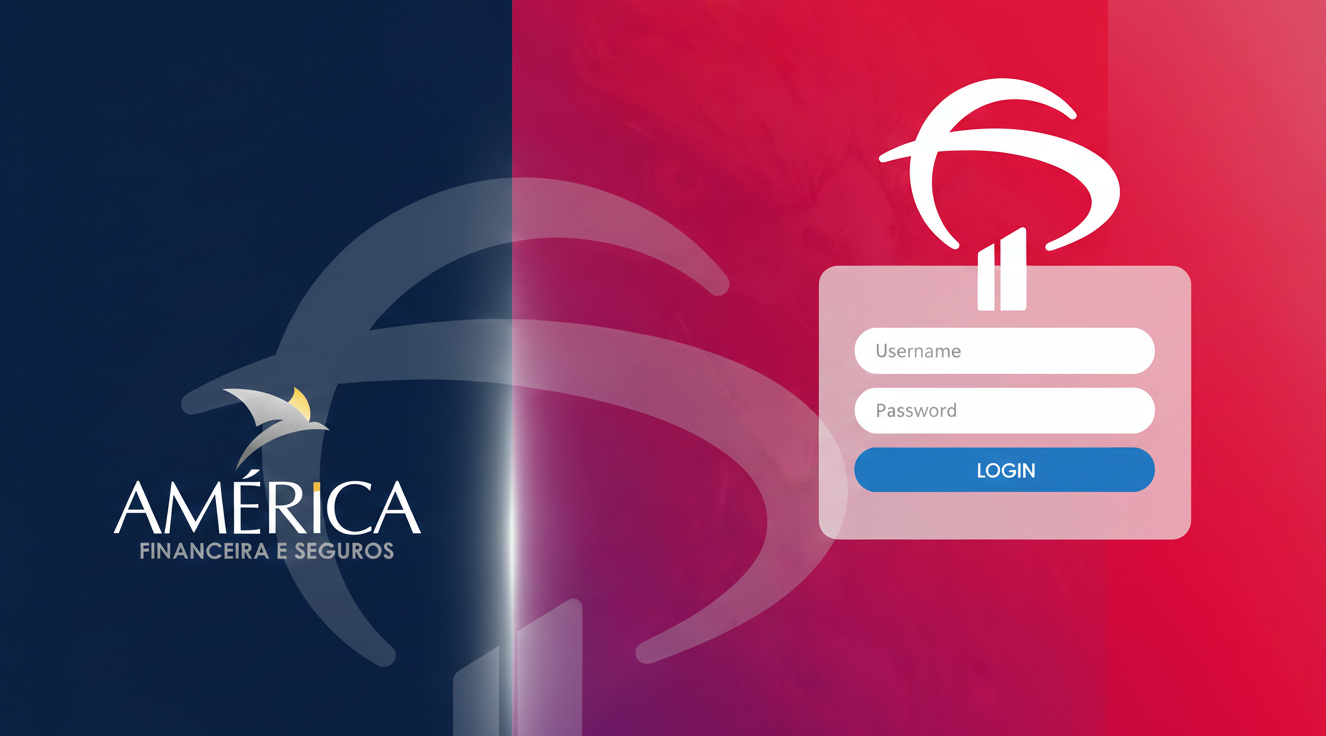
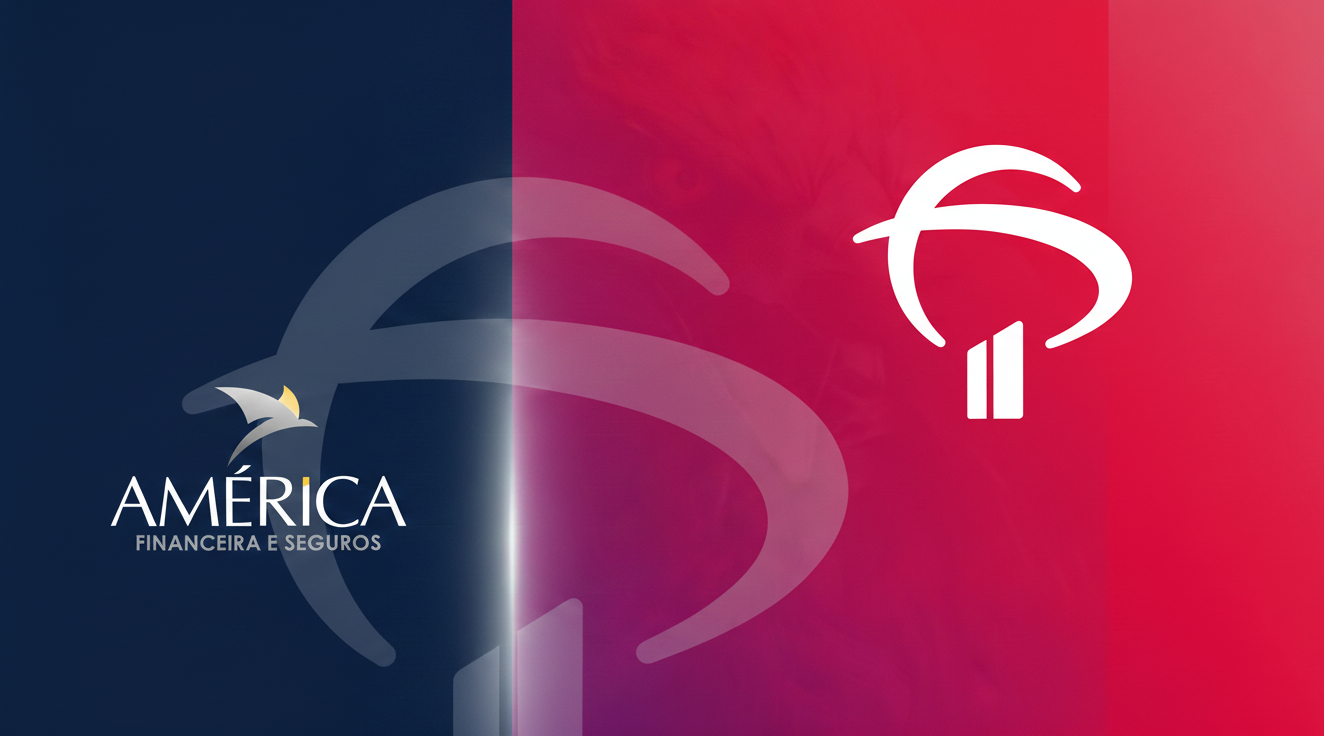
Refine login/dashboard layout and update login background

Changed region(s): [[0.5884, 0.0938, 0.898, 0.75], [0.0619, 0.5312, 0.3406, 0.7812]]

diff --git a/index.html b/index.html
@@ -39,7 +39,7 @@
       content: "";
       position: fixed;
       inset: 0;
-      background: linear-gradient(90deg, rgba(6, 10, 15, 0.28) 0%, rgba(6, 10, 15, 0.42) 100%);
+      background: rgba(0, 0, 0, 0.28);
       z-index: -1;
     }
     .page {
@@ -47,31 +47,7 @@
       grid-template-columns: 45% 55%;
       min-height: 100vh;
     }
-    .left {
-      display: flex;
-      align-items: center;
-      padding: 48px 56px;
-    }
-    .brand-block {
-      background: rgba(10, 14, 22, 0.45);
-      border: 1px solid var(--panel-border);
-      border-radius: 12px;
-      padding: 20px 22px;
-      backdrop-filter: blur(4px);
-      max-width: 360px;
-    }
-    .brand-title {
-      font-size: 22px;
-      letter-spacing: 0.05em;
-      font-weight: 700;
-      margin: 0 0 6px;
-    }
-    .brand-sub {
-      margin: 0;
-      color: var(--muted);
-      font-size: 14px;
-      letter-spacing: 0.02em;
-    }
+    .left { padding: 32px 40px; }
     .right {
       position: relative;
       display: flex;
@@ -83,24 +59,21 @@
       content: "";
       position: absolute;
       inset: 0;
-      background: linear-gradient(90deg, rgba(0, 0, 0, 0.42), rgba(0, 0, 0, 0.52));
-      opacity: 1;
-      transition: background 200ms ease;
+      background: rgba(0, 0, 0, 0.3);
+      transition: opacity 200ms ease;
       z-index: 0;
     }
-    body.dashboard .right::before {
-      background: rgba(0, 0, 0, 0.7);
-    }
+    body.dashboard .right::before { opacity: 0.45; }
     .panel {
       position: relative;
       z-index: 1;
       width: min(480px, 100%);
-      background: var(--panel);
-      border: 1px solid var(--panel-border);
-      border-radius: 14px;
-      padding: 28px;
-      box-shadow: 0 20px 50px rgba(0, 0, 0, 0.35);
-      backdrop-filter: blur(10px);
+      background: rgba(14, 16, 24, 0.9);
+      border: 1px solid rgba(255, 255, 255, 0.06);
+      border-radius: 16px;
+      padding: 32px;
+      box-shadow: 0 18px 50px rgba(0, 0, 0, 0.45);
+      backdrop-filter: blur(6px);
     }
     h1, h2 {
       margin: 0 0 10px;
@@ -148,14 +121,14 @@
     }
     .chip {
       display: inline-block;
-      padding: 8px 12px;
+      padding: 6px 11px;
       border-radius: 999px;
-      background: rgba(255, 255, 255, 0.06);
-      border: 1px solid var(--panel-border);
-      font-size: 12px;
-      letter-spacing: 0.08em;
+      background: rgba(255, 255, 255, 0.08);
+      border: 1px solid rgba(255, 255, 255, 0.12);
+      font-size: 11px;
+      letter-spacing: 0.1em;
       text-transform: uppercase;
-      margin-bottom: 12px;
+      margin-bottom: 14px;
     }
     .actions {
       display: flex;
@@ -213,12 +186,7 @@
 </head>
 <body>
   <div class="page">
-    <section class="left">
-      <div class="brand-block">
-        <p class="brand-title">Black Vida Bradesco</p>
-        <p class="brand-sub">Am&eacute;rica Financeira e Seguros</p>
-      </div>
-    </section>
+    <section class="left"></section>
     <section class="right">
       <div class="panel" id="login-card">
         <span class="chip">Acesso</span>
